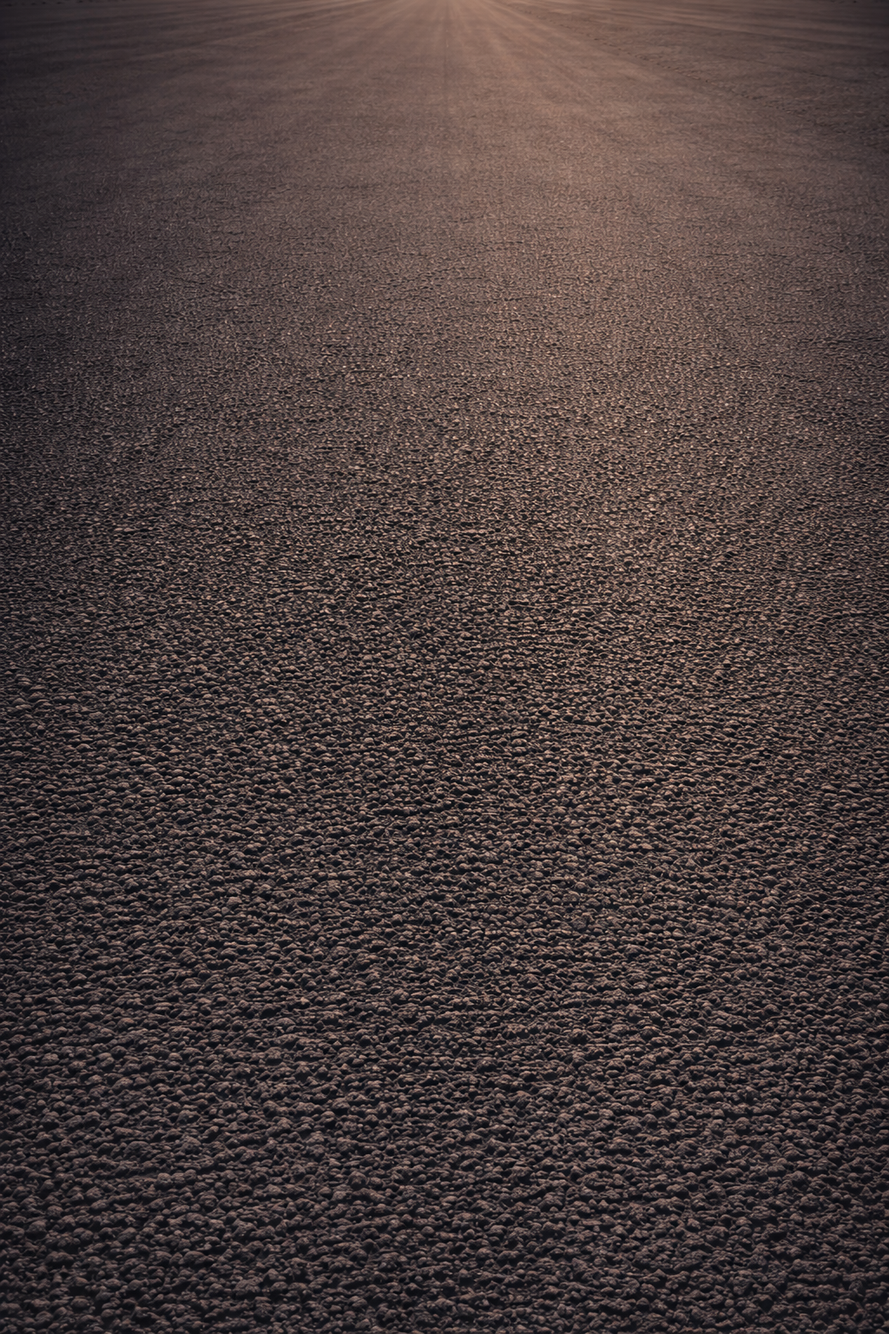
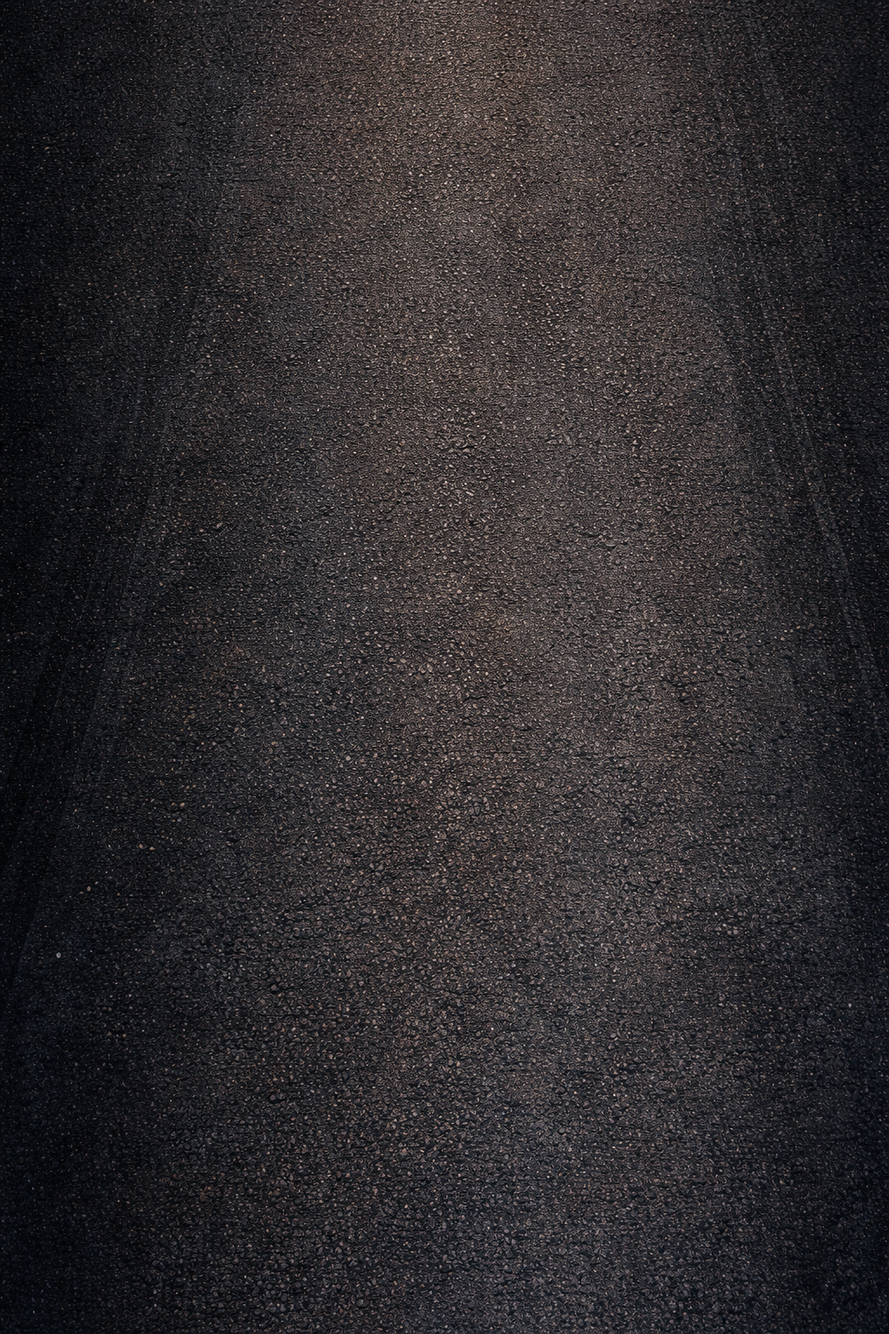
Продолжаю работу

diff --git a/assets/styles/styles.css b/assets/styles/styles.css
@@ -234,7 +234,7 @@
   background-position: center;
   background-repeat: no-repeat;
   overflow: hidden;
-  min-height: 200vh;
+  min-height: 400vh;
 }
 
 .main::before {
@@ -243,8 +243,8 @@
   inset: 0;
   background: linear-gradient(
     180deg,
-    rgba(15, 20, 25, 0.85) 0%,
-    rgba(15, 20, 25, 0.65) 40%,
+    rgba(15, 20, 25, 0.8) 0%,
+    rgba(15, 20, 25, 0.6) 40%,
     rgba(15, 20, 25, 0.9) 100%
   );
   pointer-events: none;
@@ -342,4 +342,135 @@
   font-weight: 700;
   text-transform: uppercase;
   text-align: center;
+}
+
+.services__grid .service-card {
+  box-shadow: 0 8px 24px rgba(0, 0, 0, 0.45),
+    0 0 0 1px rgba(255, 255, 255, 0.04);
+}
+
+.why-us__stats {
+  border-radius: 18px;
+  overflow: hidden;
+  position: relative;
+  background: radial-gradient(
+      120% 140% at 50% 0%,
+      rgba(255, 255, 255, 0.06) 0%,
+      rgba(255, 255, 255, 0) 55%
+    ),
+    radial-gradient(
+      120% 140% at 50% 100%,
+      rgba(0, 0, 0, 0.55) 0%,
+      rgba(0, 0, 0, 0) 55%
+    ),
+    linear-gradient(
+      180deg,
+      rgba(255, 255, 255, 0.06) 0%,
+      rgba(0, 0, 0, 0.22) 60%,
+      rgba(0, 0, 0, 0.35) 100%
+    );
+  box-shadow: inset 0 2px 0 rgba(255, 255, 255, 0.1),
+    inset 0 -10px 22px rgba(0, 0, 0, 0.55),
+    inset 0 14px 28px rgba(0, 0, 0, 0.35), 0 18px 50px rgba(0, 0, 0, 0.45);
+}
+
+.why-us__stats::before {
+  content: "";
+  position: absolute;
+  inset: 0;
+  background: linear-gradient(
+    90deg,
+    rgba(255, 255, 255, 0.06),
+    rgba(255, 255, 255, 0),
+    rgba(255, 255, 255, 0.06)
+  );
+  opacity: 0.55;
+  pointer-events: none;
+}
+
+.why-us__stats {
+  border-radius: 18px;
+  overflow: hidden;
+  background: linear-gradient(
+      180deg,
+      rgba(255, 255, 255, 0.06) 0%,
+      rgba(0, 0, 0, 0.25) 55%,
+      rgba(0, 0, 0, 0.35) 100%
+    ),
+    radial-gradient(
+      120% 120% at 50% 0%,
+      rgba(255, 255, 255, 0.12) 0%,
+      rgba(255, 255, 255, 0) 60%
+    ),
+    radial-gradient(
+      120% 120% at 50% 100%,
+      rgba(0, 0, 0, 0.35) 0%,
+      rgba(0, 0, 0, 0) 60%
+    );
+  box-shadow: inset 0 10px 22px rgba(0, 0, 0, 0.45),
+    inset 0 -10px 22px rgba(0, 0, 0, 0.45),
+    inset 0 1px 0 rgba(255, 255, 255, 0.1);
+}
+
+.why-stat {
+  position: relative;
+  padding: 28px 26px;
+  min-height: 115px;
+  display: flex;
+  align-items: center;
+  justify-content: center;
+  text-align: center;
+}
+
+.why-stat::before {
+  content: "";
+  position: absolute;
+  inset: 0;
+  background: radial-gradient(
+    140% 140% at 50% 50%,
+    rgba(0, 0, 0, 0) 40%,
+    rgba(0, 0, 0, 0.25) 100%
+  );
+  pointer-events: none;
+}
+
+.why-stat::after {
+  content: "";
+  position: absolute;
+  top: 18px;
+  bottom: 18px;
+  right: 0;
+  width: 1px;
+  background: linear-gradient(
+    180deg,
+    rgba(255, 255, 255, 0),
+    rgba(255, 255, 255, 0.18),
+    rgba(255, 255, 255, 0)
+  );
+}
+
+.why-us__stats .col-md-4:last-child .why-stat::after {
+  display: none;
+}
+
+.why-stat__value {
+  font-weight: 900;
+  font-size: 58px;
+  line-height: 1;
+  background: linear-gradient(180deg, #ffe1b8 0%, #ff9f2f 45%, #ff6a00 100%);
+  -webkit-background-clip: text;
+  background-clip: text;
+  color: transparent;
+  text-shadow: 0 6px 18px rgba(0, 0, 0, 0.35);
+}
+
+.why-stat__label,
+.why-stat__unit,
+.why-stat__text {
+  font-weight: 600;
+  opacity: 0.95;
+}
+
+.why-stat__text {
+  max-width: 220px;
 }

diff --git a/index.html b/index.html
@@ -99,6 +99,78 @@
           </div>
         </div>
       </section>
+
+      <section class="why-us py-5">
+        <div class="container">
+          <h2 class="section-title mb-5">Почему нас выбирают</h2>
+
+          <div class="why-us__stats">
+            <div class="row g-0">
+              <div class="col-12 col-md-4">
+                <div class="why-stat">
+                  <div class="why-stat__top">
+                    <span class="why-stat__label">Более</span>
+                    <span class="why-stat__value">7</span>
+                    <span class="why-stat__unit">лет</span>
+                    <span class="why-stat__text">опыта</span>
+                  </div>
+                </div>
+              </div>
+
+              <div class="col-12 col-md-4">
+                <div class="why-stat">
+                  <div class="why-stat__top">
+                    <span class="why-stat__value">1500+</span>
+                    <span class="why-stat__text">подобранных авто</span>
+                  </div>
+                </div>
+              </div>
+
+              <div class="col-12 col-md-4">
+                <div class="why-stat">
+                  <div class="why-stat__top">
+                    <span class="why-stat__value">100%</span>
+                    <span class="why-stat__text">гарантия качества</span>
+                  </div>
+                </div>
+              </div>
+            </div>
+          </div>
+
+          <div class="why-us__features mt-4">
+            <div class="row g-4">
+              <div class="col-12 col-md-4">
+                <div class="why-feature">
+                  <div class="why-feature__icon">
+                    <img src="./assets/images/svgs/placeholder-1.svg" alt="" />
+                  </div>
+                  <div class="why-feature__text">Тщательная диагностика</div>
+                </div>
+              </div>
+
+              <div class="col-12 col-md-4">
+                <div class="why-feature">
+                  <div class="why-feature__icon">
+                    <img src="./assets/images/svgs/placeholder-2.svg" alt="" />
+                  </div>
+                  <div class="why-feature__text">
+                    Проверка по 100+ параметрам
+                  </div>
+                </div>
+              </div>
+
+              <div class="col-12 col-md-4">
+                <div class="why-feature">
+                  <div class="why-feature__icon">
+                    <img src="./assets/images/svgs/placeholder-3.svg" alt="" />
+                  </div>
+                  <div class="why-feature__text">Торги и выгодная цена</div>
+                </div>
+              </div>
+            </div>
+          </div>
+        </div>
+      </section>
     </main>
 
     <footer class="footer"></footer>
